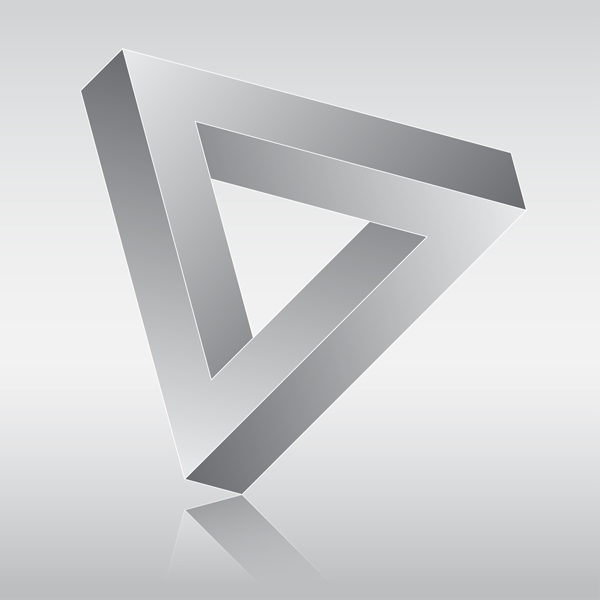
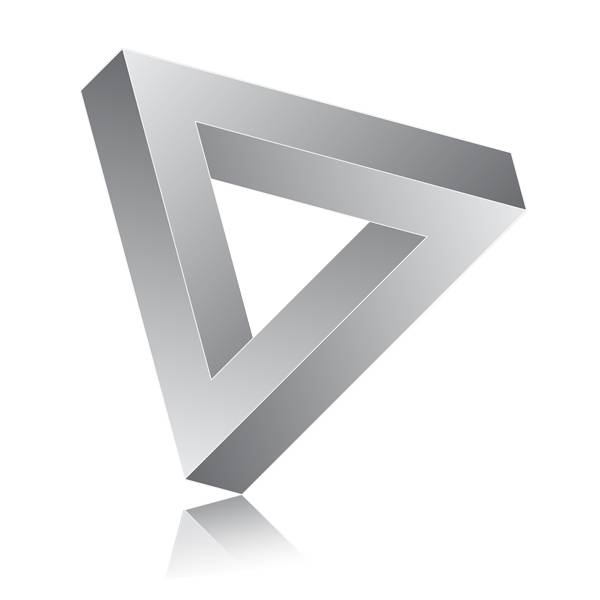
progress

diff --git a/src/components/welcome.js b/src/components/welcome.js
@@ -5,34 +5,29 @@ import styled from 'styled-components'
 
 import BackgroundImage from 'gatsby-background-image'
 
-import ReactTextRotator from 'react-text-rotator';
+import Slider from "react-slick";
 
 import "./layout.css"
 
 // <div style={{ backgroundImage: `url(./images/willow-creek.jpg)` }}>foobar baz</div>
-
-const content = [
-  {
-    text: 'Software built with the whole picture in mind.', className: 'classA', animation: 'fade',
-  },
-  {
-    text: 'Make tech serve you. Not the other way around.', className: 'classB', animation: 'fade',
-  },
-  {
-    text: 'A team that scales to what YOU need.', className: 'classC', animation: 'fade',
-  },
-  {
-    text: 'The experience and drive to build the best.', className: 'classD', animation: 'fade',
-  },
-  {
-    text: 'Clients and projects, big and small.', className: 'classE', animation: 'fade',
-  },
-];
+/*
+ * <Slider {...settings}>
+				  <div>
+					<h1>FooBar</h1>
+				  </div>
+				  <div>
+					<h1>FooBar2</h1>
+				  </div>
+				  <div>
+					<h1>FooBar3</h1>
+				  </div>
+              </Slider>
+              * */
 const Welcome = ({ className }) => (
   <StaticQuery
     query={graphql`
       query {
-        desktop: file(relativePath: { eq: "triangle1.jpg" }) {
+        desktop: file(relativePath: { eq: "triangle2.jpg" }) {
           childImageSharp {
             fluid(quality: 90, maxWidth: 1920) {
               ...GatsbyImageSharpFluid_withWebp
@@ -49,12 +44,15 @@ const Welcome = ({ className }) => (
       </div> )
       */
       const imageData = data.desktop.childImageSharp.fluid
+      var settings = {
+        dots: false
+      };
       return (
         <BackgroundImage Tag="section" className={className} fluid={imageData} backgroundColor={`transparent`} 
-          style={{ width: `100%`, height: `100%`, display: `flex`, justifyContent: `center`, backgroundSize: `contain` }}>
+          style={{ width: `100%`, height: `100%`, display: `flex`, justifyContent: `center`, backgroundSize: `contain`, backgroundPosition: `bottom`, }}>
           <div style={{ width: `100%`, height: `100%`, display: `flex`, justifyContent: `center`, alignItems: `center` }}>
             <div class="text-slider-container">
-              <ReactTextRotator content={content} time={5000} startDelay={2000} />
+              
             </div>
           </div>
         </BackgroundImage>

diff --git a/src/components/layout.css b/src/components/layout.css
@@ -1,3 +1,6 @@
+import "slick-carousel/slick/slick.css"
+import "slick-carousel/slick/slick-theme.css"
+
 html {
   font-family: sans-serif;
   -ms-text-size-adjust: 100%;
@@ -607,4 +610,7 @@ border-bottom: 1px solid var(--theme-ui-colors-ui-border,
     margin-bottom: 1.5rem;*/
     position: relative;
     background-color: white;
+    max-height: 150px;
+    max-width: 300px;
 }
+

diff --git a/gatsby-browser.js b/gatsby-browser.js
@@ -5,3 +5,5 @@
  */
 
 // You can delete this file if you're not using it
+
+
